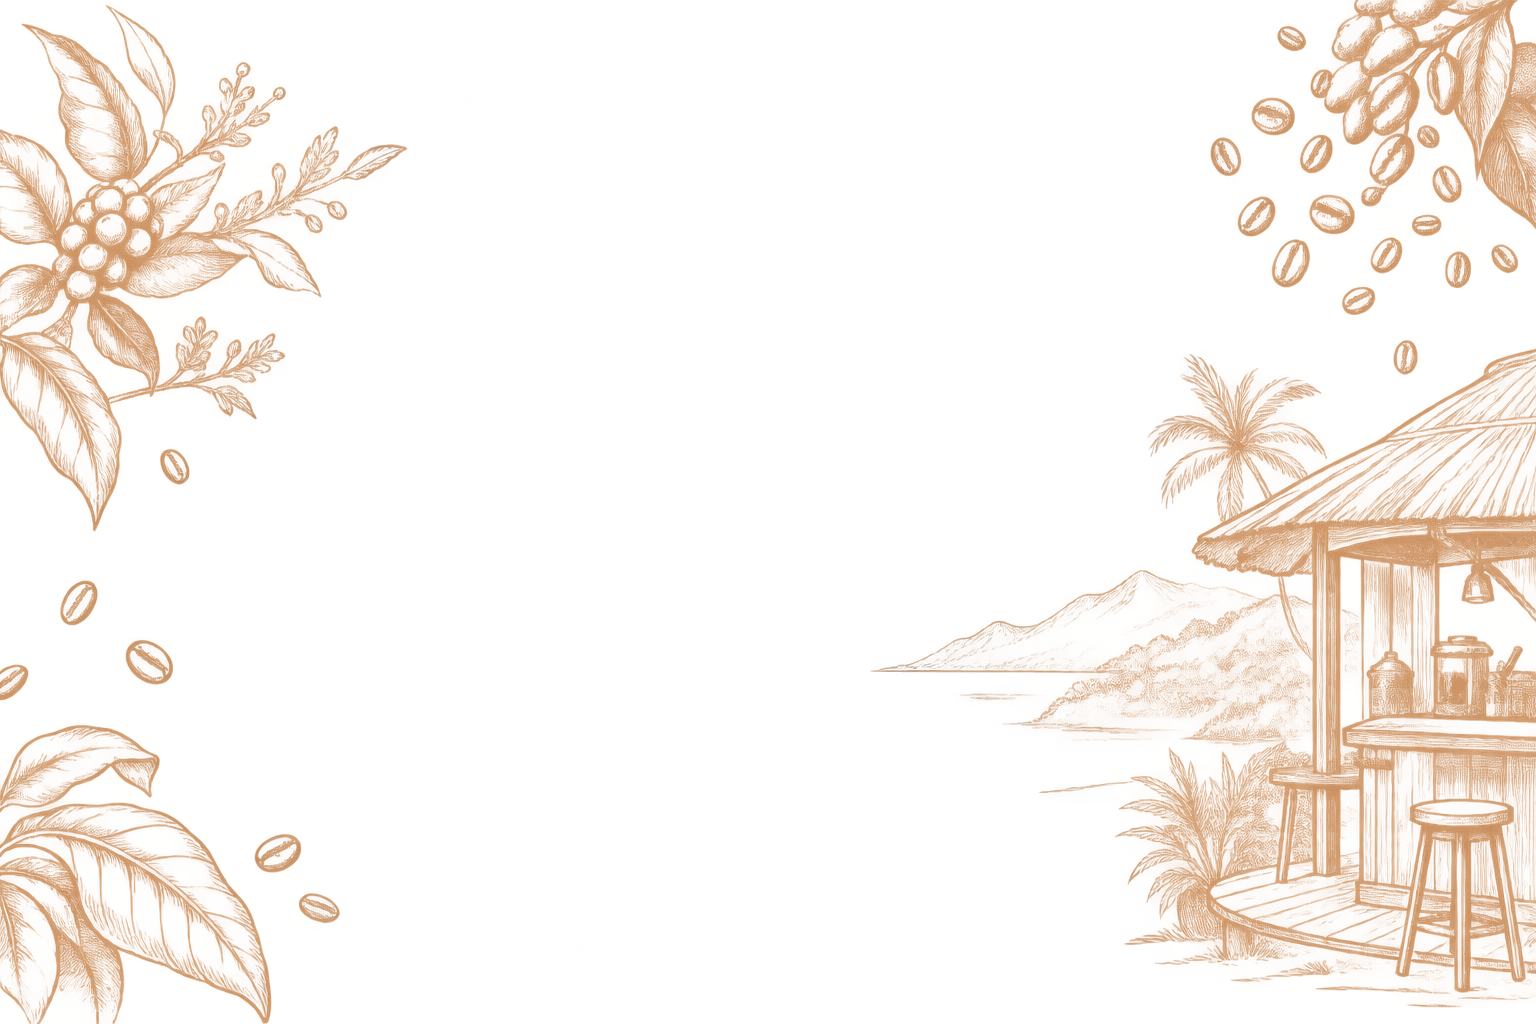
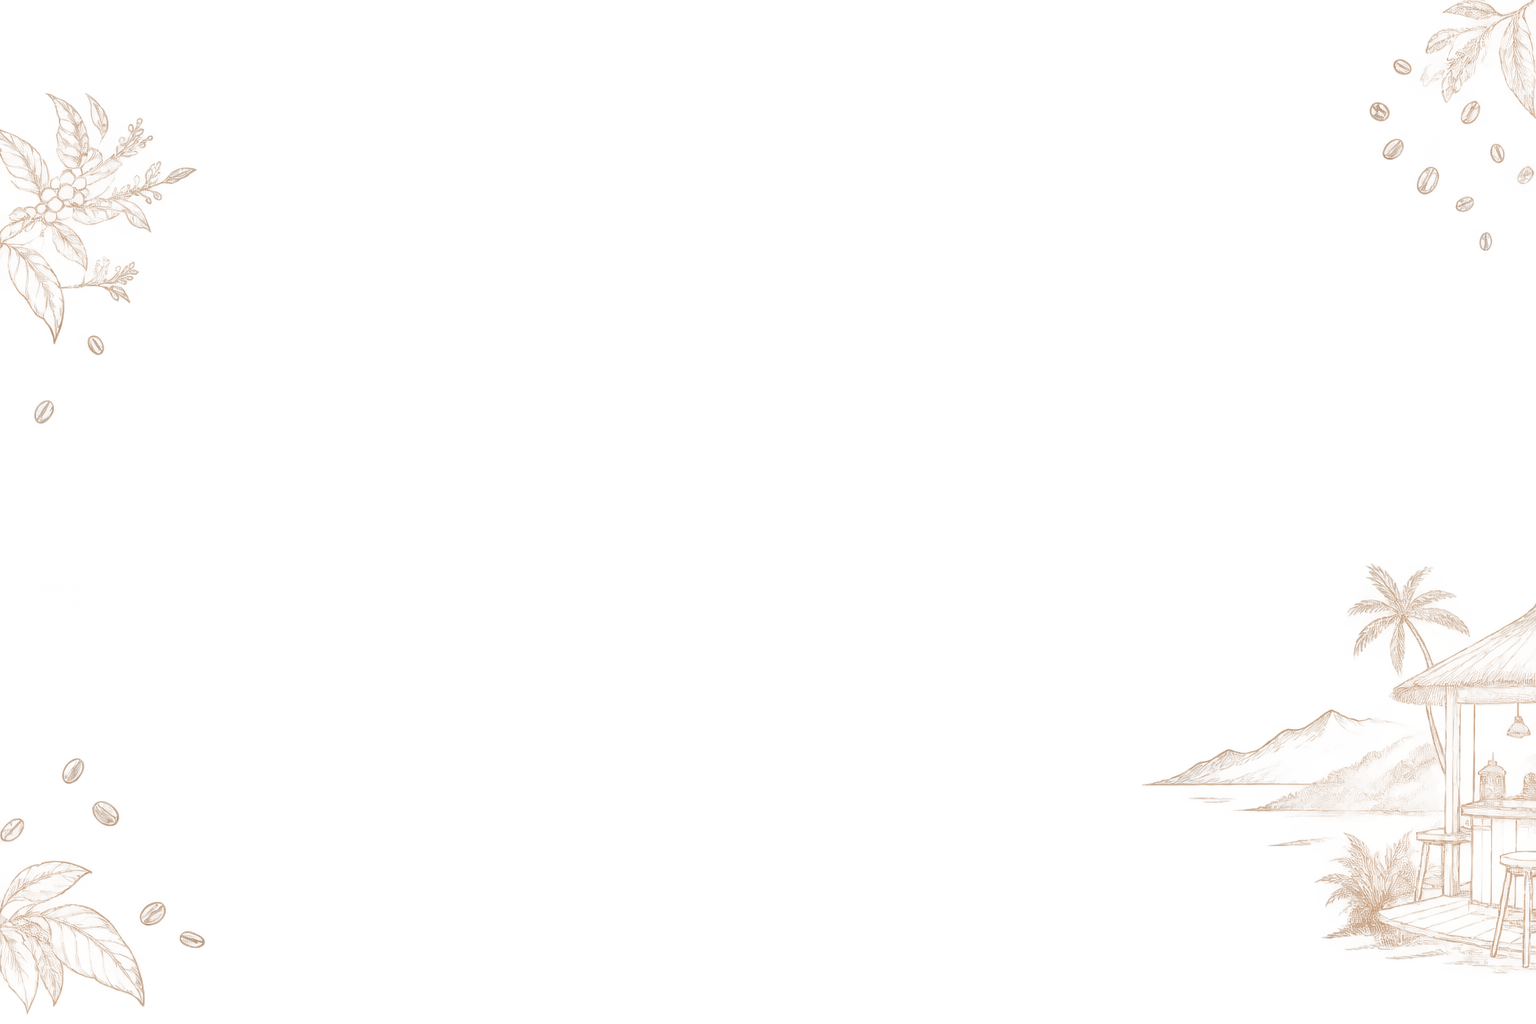
wrote directly in the file

diff --git a/src/components/sections/Hero.tsx b/src/components/sections/Hero.tsx
@@ -7,7 +7,7 @@ import avatarHands from '@/assets/images/avatar-hands.jpg'
 
 export function Hero() {
   return (
-    <section className="relative min-h-screen flex items-center pt-24 pb-16 pt-[140px] overflow-hidden" style={{ backgroundImage: `url(${heroBackground})`, backgroundSize: "cover", backgroundPosition: "center", backgroundRepeat: "no-repeat" }}>
+    <section className="relative min-h-screen flex items-center pt-24 pb-16 pt-[160px] overflow-hidden" style={{ backgroundImage: `url(${heroBackground})`, backgroundSize: "cover", backgroundPosition: "center", backgroundRepeat: "no-repeat" }}>
       {/* Abstract background elements */}
       <div className="absolute top-1/4 -right-1/4 w-1/2 h-1/2 bg-surface-container-high rounded-full blur-[120px] opacity-50 pointer-events-none"></div>
       <div className="absolute -bottom-1/4 -left-1/4 w-1/3 h-1/3 bg-primary-container rounded-full blur-[100px] opacity-40 pointer-events-none"></div>
